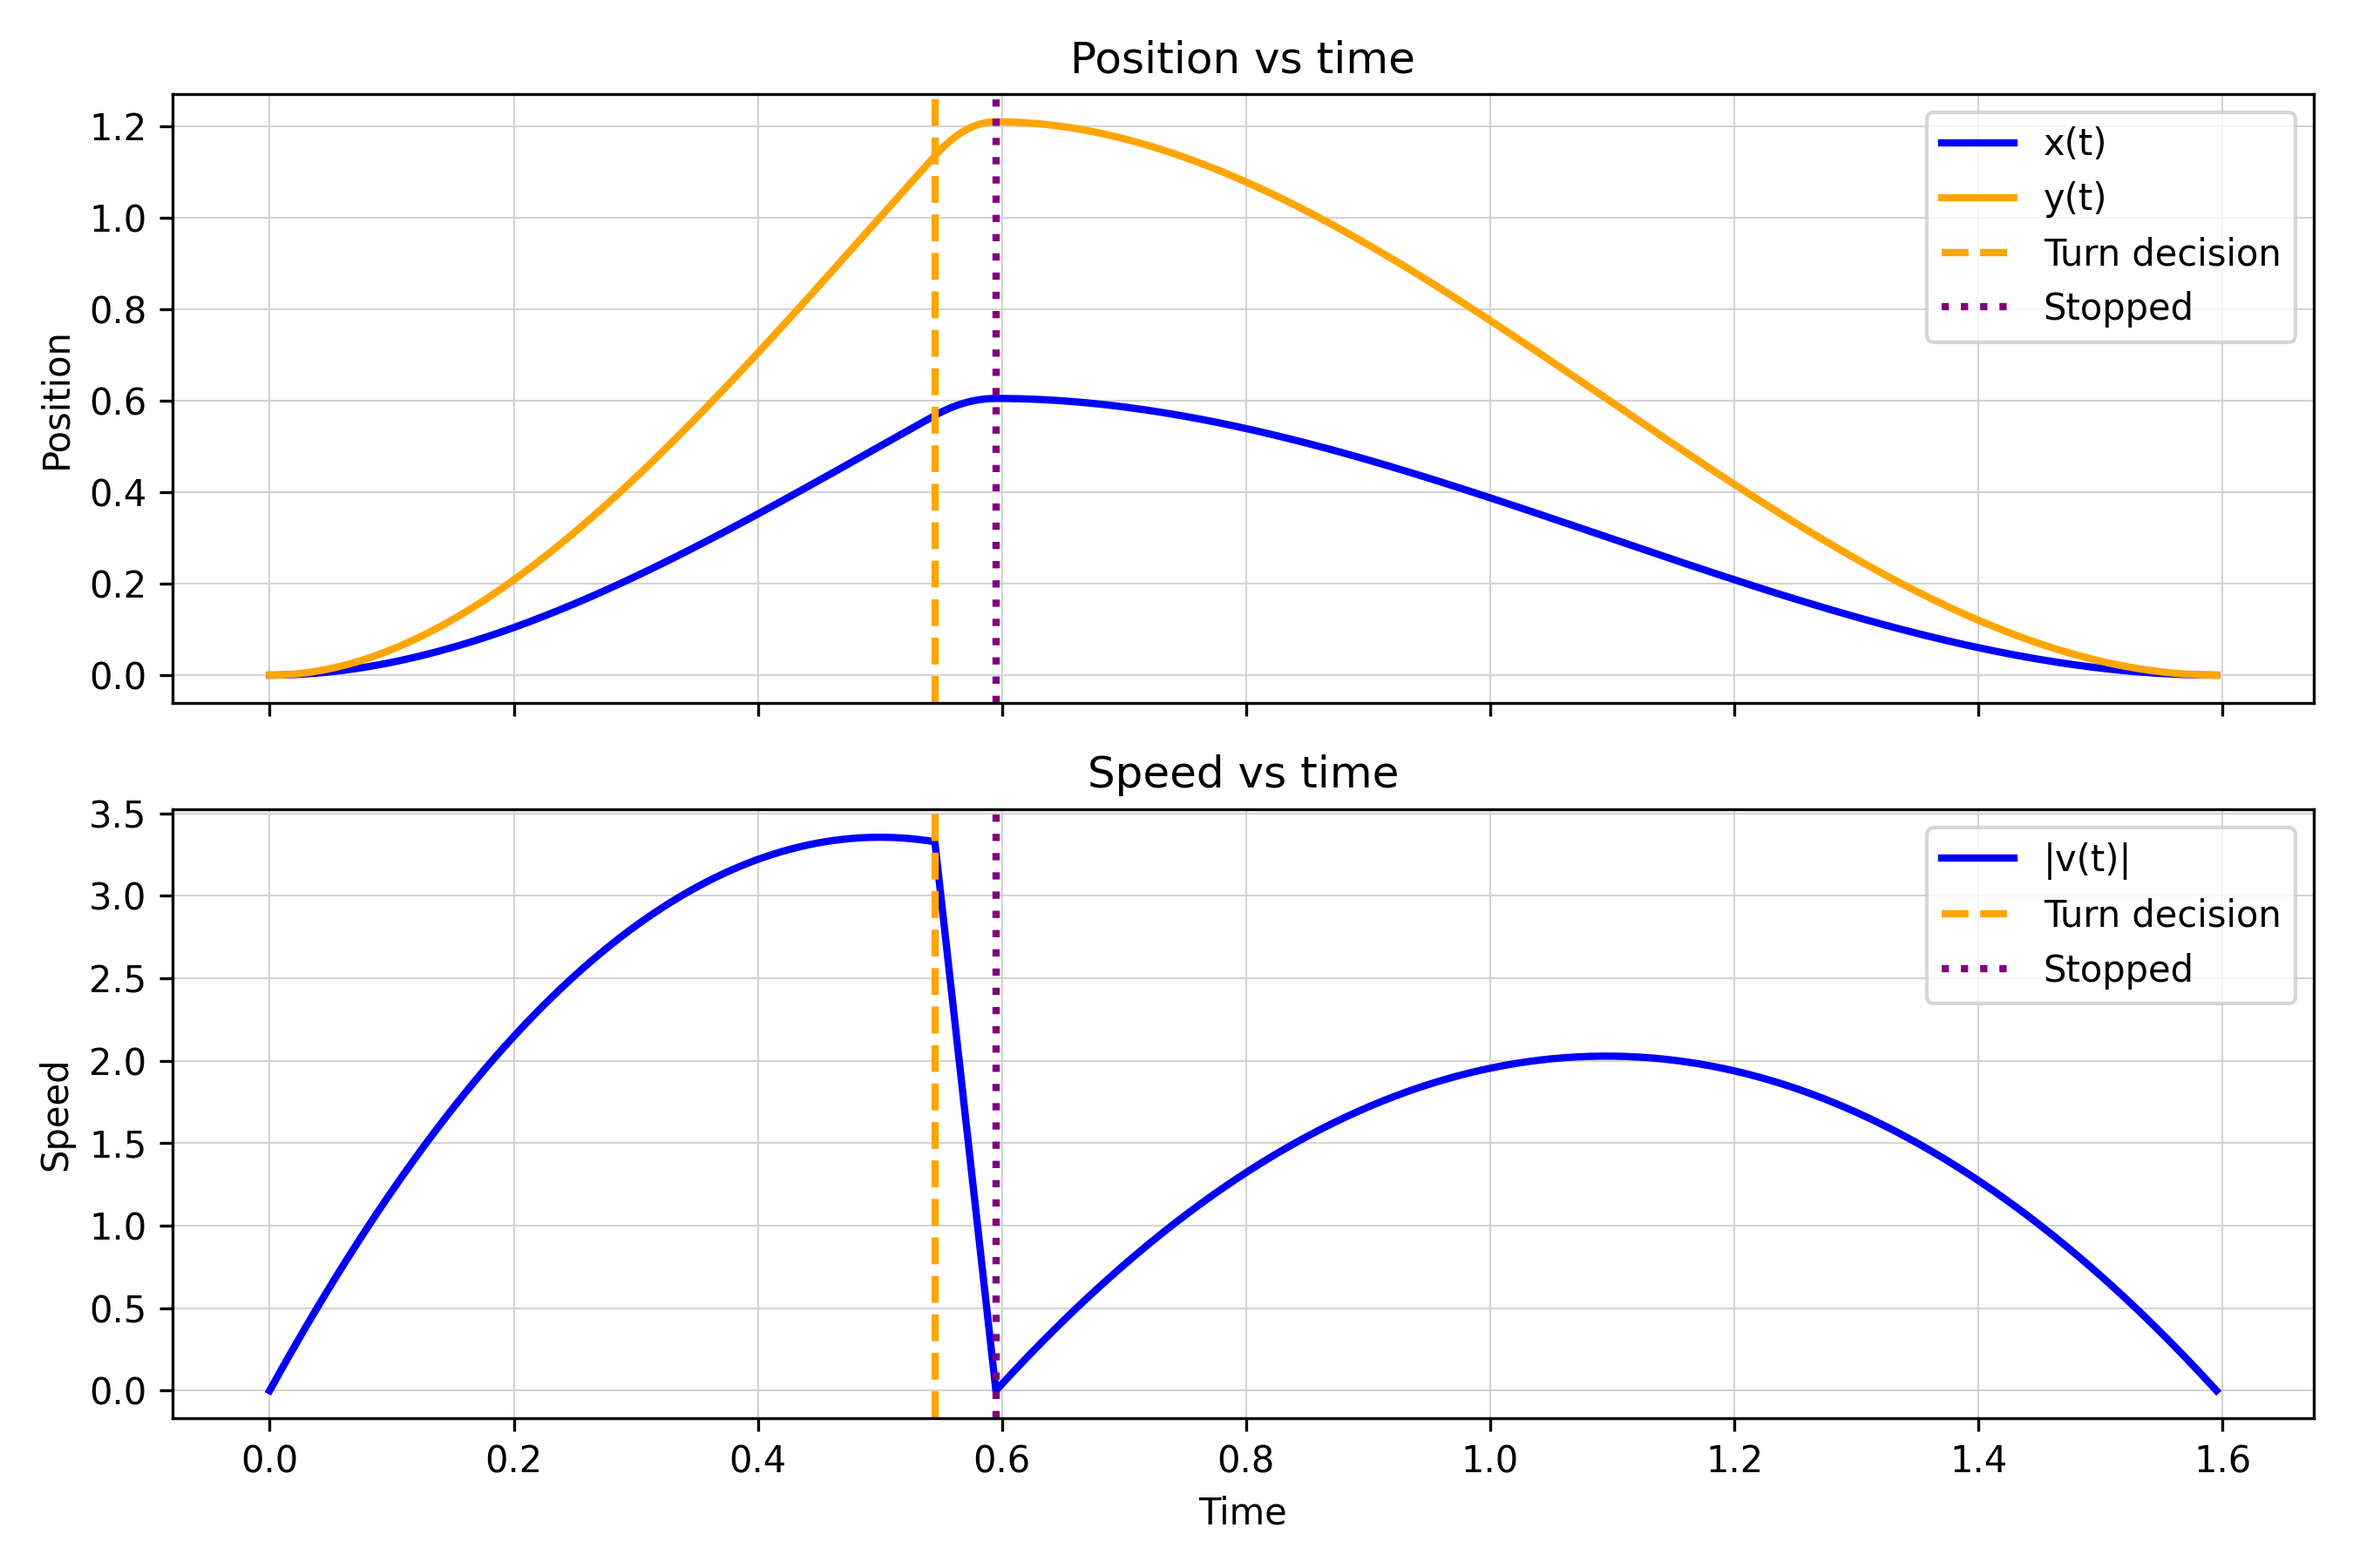
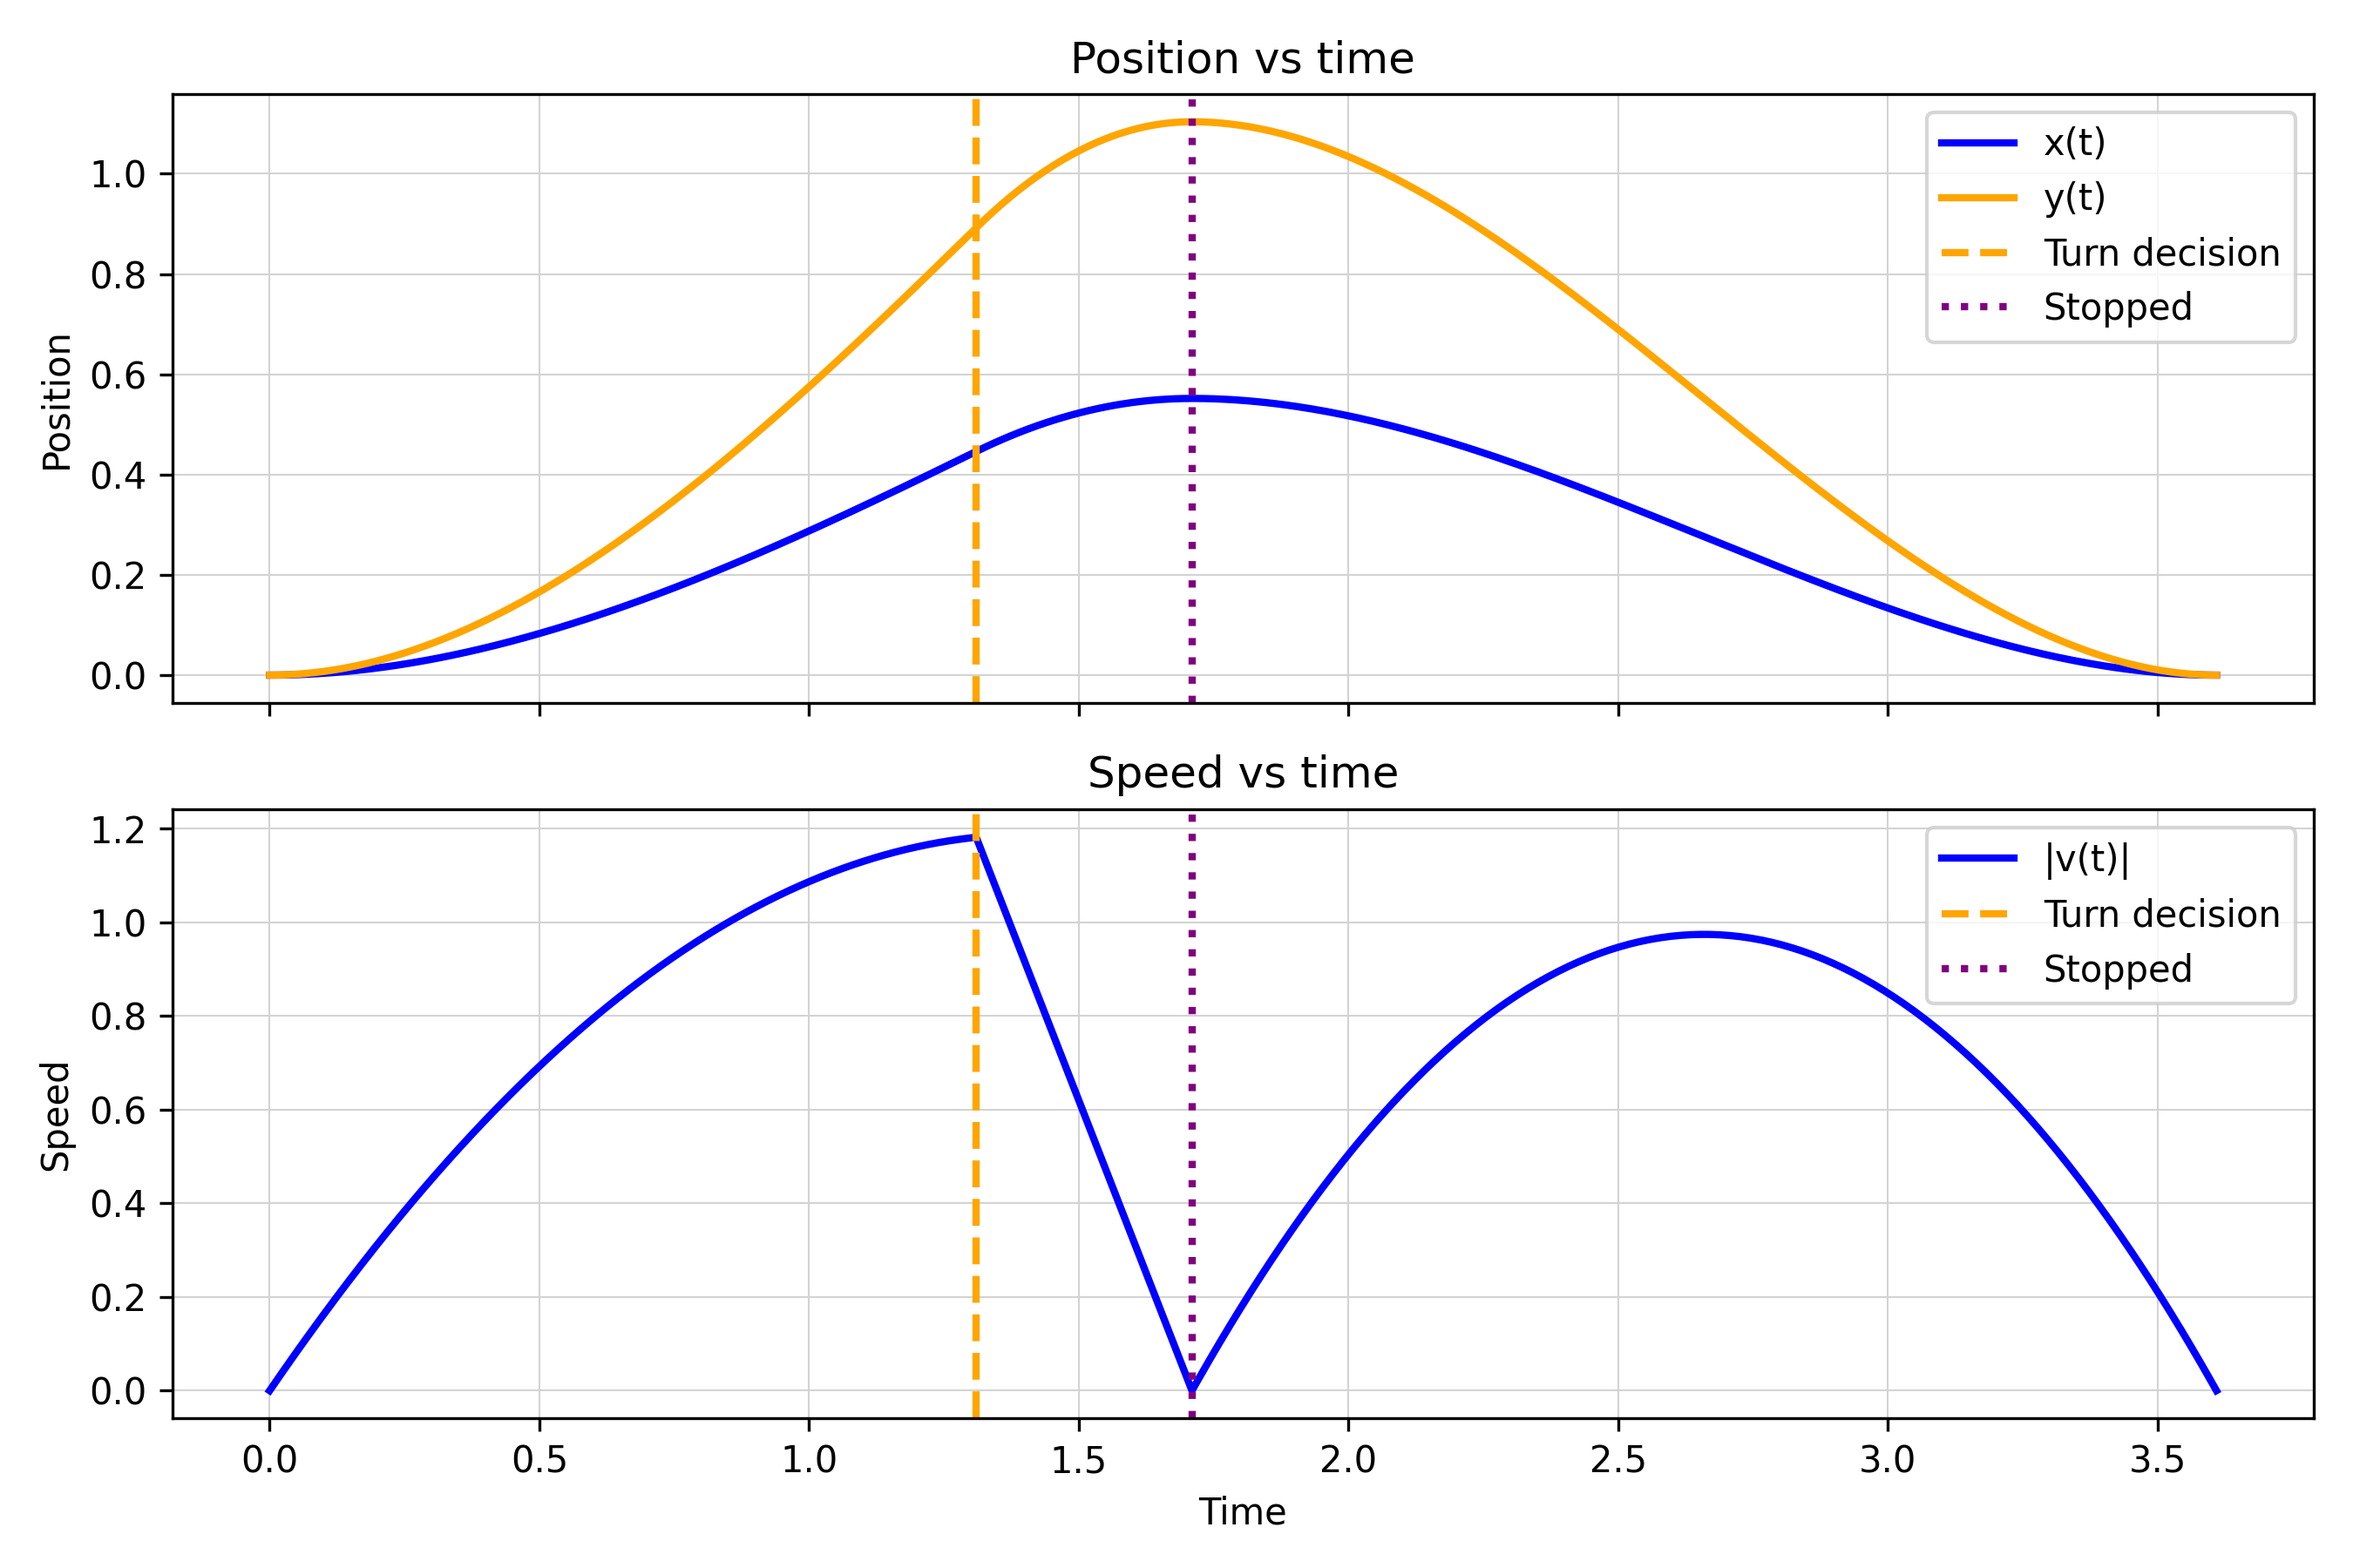
use T* and t_r* for param traj graph

diff --git a/main.py b/main.py
@@ -41,13 +41,16 @@ PLOTS_DIR = SCRIPT_DIR / "plots"
 # -----------------------------------------------------------------------------
 X0, Y0 = 0.0, 0.0  # Start
 XT, YT = 1.0, 2.0  # Target
-T = 1.0  # Flight time (start ↔ target)
 M = 1.0  # Drone mass
 EH = 1.0  # Hovering energy
-E_MAX = 17  # Max energy budget
-TS = T / 20  # Time to come to stop when turning midway
+E_MAX = 6  # Max energy budget
+TS = 0.4  # Minimum physically feasible stopping time
 EPS = 5e-2  # Threshold used to determine if the drone should return midway (if energy margin < eps)
-DT = T / 1000  # Time interval at which to check if drone should return
+
+# Compute optimal flight time T* from distance to target
+dist_forward = np.sqrt((XT - X0)**2 + (YT - Y0)**2)
+T = (9 * M / (2 * EH)) ** (1/3) * dist_forward ** (2/3)
+DT = T / 1000  # Time interval at which to check energy constraint
 
 
 def run_forward_phase(params, state, e_max, eps, ts):
@@ -97,7 +100,7 @@ def run_forward_phase(params, state, e_max, eps, ts):
 
         # Get difference between energy margin that would remain after returning and epsilon
         margin_minus_eps = check_turn(
-            t, state, e_max, eps, ts, T, m, EH, x0, y0, e_turn_tracker, e_used_tracker
+            t, state, e_max, eps, ts, m, EH, x0, y0, e_turn_tracker, e_used_tracker
         )
         e_turn_times = np.append(e_turn_times, t)
 
@@ -131,21 +134,24 @@ def run_stop_phase(turn_state, ts, m, EH):
 
 def run_return_phase(stopped_state, x0, y0, T, m, EH):
     """Integrate return from stopped state to (x0, y0). Returns solution."""
-    # Pass in stopped position as initial position, initial starting point as ending position, flight
-    # time, mass, and hovering energy as parameters
-    params_return = [stopped_state[0], stopped_state[1], x0, y0, T, m, EH]
+    # Compute optimal return time from current stopped position
+    dist_return = np.sqrt((x0 - stopped_state[0])**2 + (y0 - stopped_state[1])**2)
+    t_r_star = (9 * m / (2 * EH)) ** (1/3) * dist_return ** (2/3)
+
+    # Pass in stopped position as initial position, initial starting point as ending position, optimal return time,
+    # mass, and hovering energy as parameters
+    params_return = [stopped_state[0], stopped_state[1], x0, y0, t_r_star, m, EH]
     # Return to initial point
     return solve_ivp(
         forward_odes,
-        (0, T),
+        (0, t_r_star),
         stopped_state,
         args=(params_return,),
         method="RK45",
-        max_step=T / 200,
+        max_step=t_r_star / 200,
         rtol=1e-8,
         atol=1e-10,
-    )
-
+    ), t_r_star
 
 def main():
     params = [X0, Y0, XT, YT, T, M, EH]
@@ -176,7 +182,7 @@ def main():
     stopped_state = trajectory[stopped_index]
     print("Stopped state:", stopped_state)
 
-    sol_return = run_return_phase(stopped_state, X0, Y0, T, M, EH)
+    sol_return, t_r_star = run_return_phase(stopped_state, X0, Y0, T, M, EH)
     print("Ending state:", sol_return.y[:, -1])
 
     # Add all times and state arrays into trajectory tracker, offsetting the times because we
@@ -198,10 +204,14 @@ def main():
     speed = np.hypot(trajectory[:, 2], trajectory[:, 3]) # Speed = |v| = sqrt(vx^2 + vy^2)
     e = trajectory[:, 4]
 
+    print("T*: ", T)
+    print("t_r*: ", t_r_star)
+
     # ---- Plotting ----
     PLOTS_DIR.mkdir(parents=True, exist_ok=True)
     plot_trajectory_parametric(
         x, y, X0, Y0, XT, YT, turn_index, stopped_index, turned,
+        E_MAX, T, t_r_star, EH, M,
         savepath=str(PLOTS_DIR / "parametric_trajectory.png"),
     )
     plot_position_and_speed_vs_time(

diff --git a/drone_sim.py b/drone_sim.py
@@ -96,21 +96,24 @@ def check_stop_energy(state, ts, m, EH):
 
 """Estimate the amount of energy needed to return back to the starting point given a current state
 of the drone by using solve_ivp to simulate flight forward."""
-def check_return_energy(state, T, m, EH, x0, y0):
+def check_return_energy(state, m, EH, x0, y0):
     # Get the current state of the drone after coming to a stop
     x, y, vx, vy, e = state
+
+    dist_return = np.sqrt((x0 - x)**2 + (y0 - y)**2)
+    t_r_star = (9 * m / (2 * EH)) ** (1/3) * dist_return ** (2/3)
     # Pass in current position as starting point, initial starting point of the whole journey as
-    # ending point, flight time, mass, hovering energy
-    params = [x, y, x0, y0, T, m, EH]
+    # ending point, optimal return time, mass, hovering energy as parameters
+    params = [x, y, x0, y0, t_r_star, m, EH]
 
     # Use the current position, velocity = 0, and energy = 0 as to not include energy already used
     # in returning energy estimate
     initial_state = [x, y, 0, 0, 0]
     # Simulate from time 0 to flight time
     t0 = 0.0
-    tspan = np.linspace(t0, T, 100)
+    tspan = np.linspace(t0, t_r_star, 100)
 
-    sol = solve_ivp(forward_odes, (t0, T), initial_state, args=(params,), t_eval=tspan, method="RK45", rtol=1e-8, atol=1e-10)
+    sol = solve_ivp(forward_odes, (t0, t_r_star), initial_state, args=(params,), t_eval=tspan, method="RK45", rtol=1e-8, atol=1e-10)
 
     if sol.success:
         # Return the amount of energy used to return
@@ -122,7 +125,7 @@ def check_return_energy(state, T, m, EH, x0, y0):
 fixed amount of time and then return from that point back to the starting point. The energy margin
 that would be left after performing this return is compared to a given epsilon, below which the drone
 should turn back. Returns the difference between the margin and epsilon."""
-def check_turn(t, state, e_max, eps, ts, T, m, EH, x0, y0, e_turn_tracker, e_used_tracker):
+def check_turn(t, state, e_max, eps, ts, m, EH, x0, y0, e_turn_tracker, e_used_tracker):
     # Get the amount of energy used thus far
     e_used = state[4]
 
@@ -134,7 +137,7 @@ def check_turn(t, state, e_max, eps, ts, T, m, EH, x0, y0, e_turn_tracker, e_use
     e_stop = stopped_state[4]
 
     # Compute the amount of energy needed to return from the state after stopping
-    return_state = check_return_energy(stopped_state, T, m, EH, x0, y0)
+    return_state = check_return_energy(stopped_state, m, EH, x0, y0)
     e_return = return_state[4]
 
     e_turn = e_stop + e_return
@@ -166,7 +169,10 @@ def expected_return_energy(times, EH, ts, T, m, x0, y0, xT, yT):
     x = x0 + ((3 * (times**2) / (T**2)) - (2 * (times**3) / (T**3))) * (xT - x0)
     y = y0 + ((3 * (times**2) / (T**2)) - (2 * (times**3) / (T**3))) * (yT - y0)
 
-    # Predicted stop and return energy
-    expected_e_turn = EH * (T + ts) + (m * (vx**2 + vy**2) / 2) + ((9 * m) / (4 * T**2)) * ((x0 - x - ((vx * ts) / 2))**2 + (y0 - y - ((vy * ts) / 2))**2)
+    stop_x = x + vx * ts / 2
+    stop_y = y + vy * ts / 2
+    dist_return = np.sqrt((x0 - stop_x)**2 + (y0 - stop_y)**2)
+    t_r_star = (9 * m / (2 * EH)) ** (1/3) * dist_return ** (2/3)
+    expected_e_turn = EH * (t_r_star + ts) + (m * (vx**2 + vy**2) / 2) + ((9 * m) / (4 * t_r_star**2)) * ((x0 - x - ((vx * ts) / 2))**2 + (y0 - y - ((vy * ts) / 2))**2)
 
     return expected_e_turn

diff --git a/plotting.py b/plotting.py
@@ -11,7 +11,7 @@ import numpy as np
 
 
 def plot_trajectory_parametric(
-    x, y, x0, y0, xT, yT, turn_index, stopped_index, turned, savepath="parametric_trajectory.png"
+    x, y, x0, y0, xT, yT, turn_index, stopped_index, turned, E_MAX, T, t_r_star, EH, M, savepath="parametric_trajectory.png"
 ):
     """
     Plot parametric solution of x(t) vs. y(t) split into forward and return phases.
@@ -32,13 +32,13 @@ def plot_trajectory_parametric(
         None
     """
 
-    fig, (ax1, ax2) = plt.subplots(1, 2, figsize=(14, 6), dpi=300)
+    fig, (ax1, ax2) = plt.subplots(1, 2, figsize=(9, 6), dpi=300)
 
     # Left subplot (forward journey)
     if turned:
         ax1.plot(x[: turn_index + 1],y[: turn_index + 1],lw=2.5, label="Forward", color="tab:blue")
-        ax1.plot(x[turn_index : stopped_index + 1],y[turn_index : stopped_index + 1],"--",lw=2,label="Stopping", color="tab:orange")
-        ax1.scatter(x[turn_index],y[turn_index],c="orange",s=50,marker="x",label="Turn decision",zorder=5,)
+        ax1.plot(x[turn_index : stopped_index + 1],y[turn_index : stopped_index + 1],":",lw=3,label="Stopping", color="gray")
+        ax1.scatter(x[turn_index],y[turn_index],c="orange",s=100,marker="x",lw=2,label="Turn decision",zorder=5,)
         ax1.scatter(x[stopped_index],y[stopped_index],c="purple",s=100,marker="s",label="Stopped",zorder=5,)
     else:
         ax1.plot(x[: stopped_index + 1], y[: stopped_index + 1], lw=2.5, label="Forward")
@@ -94,8 +94,7 @@ def plot_trajectory_parametric(
     plt.tight_layout()
     plt.savefig(savepath)
     plt.close()
-
-
+    
 
 def plot_position_vs_time(times, x, y, turn_index, stopped_index, turned, savepath="position_vs_time.png"):
     """
